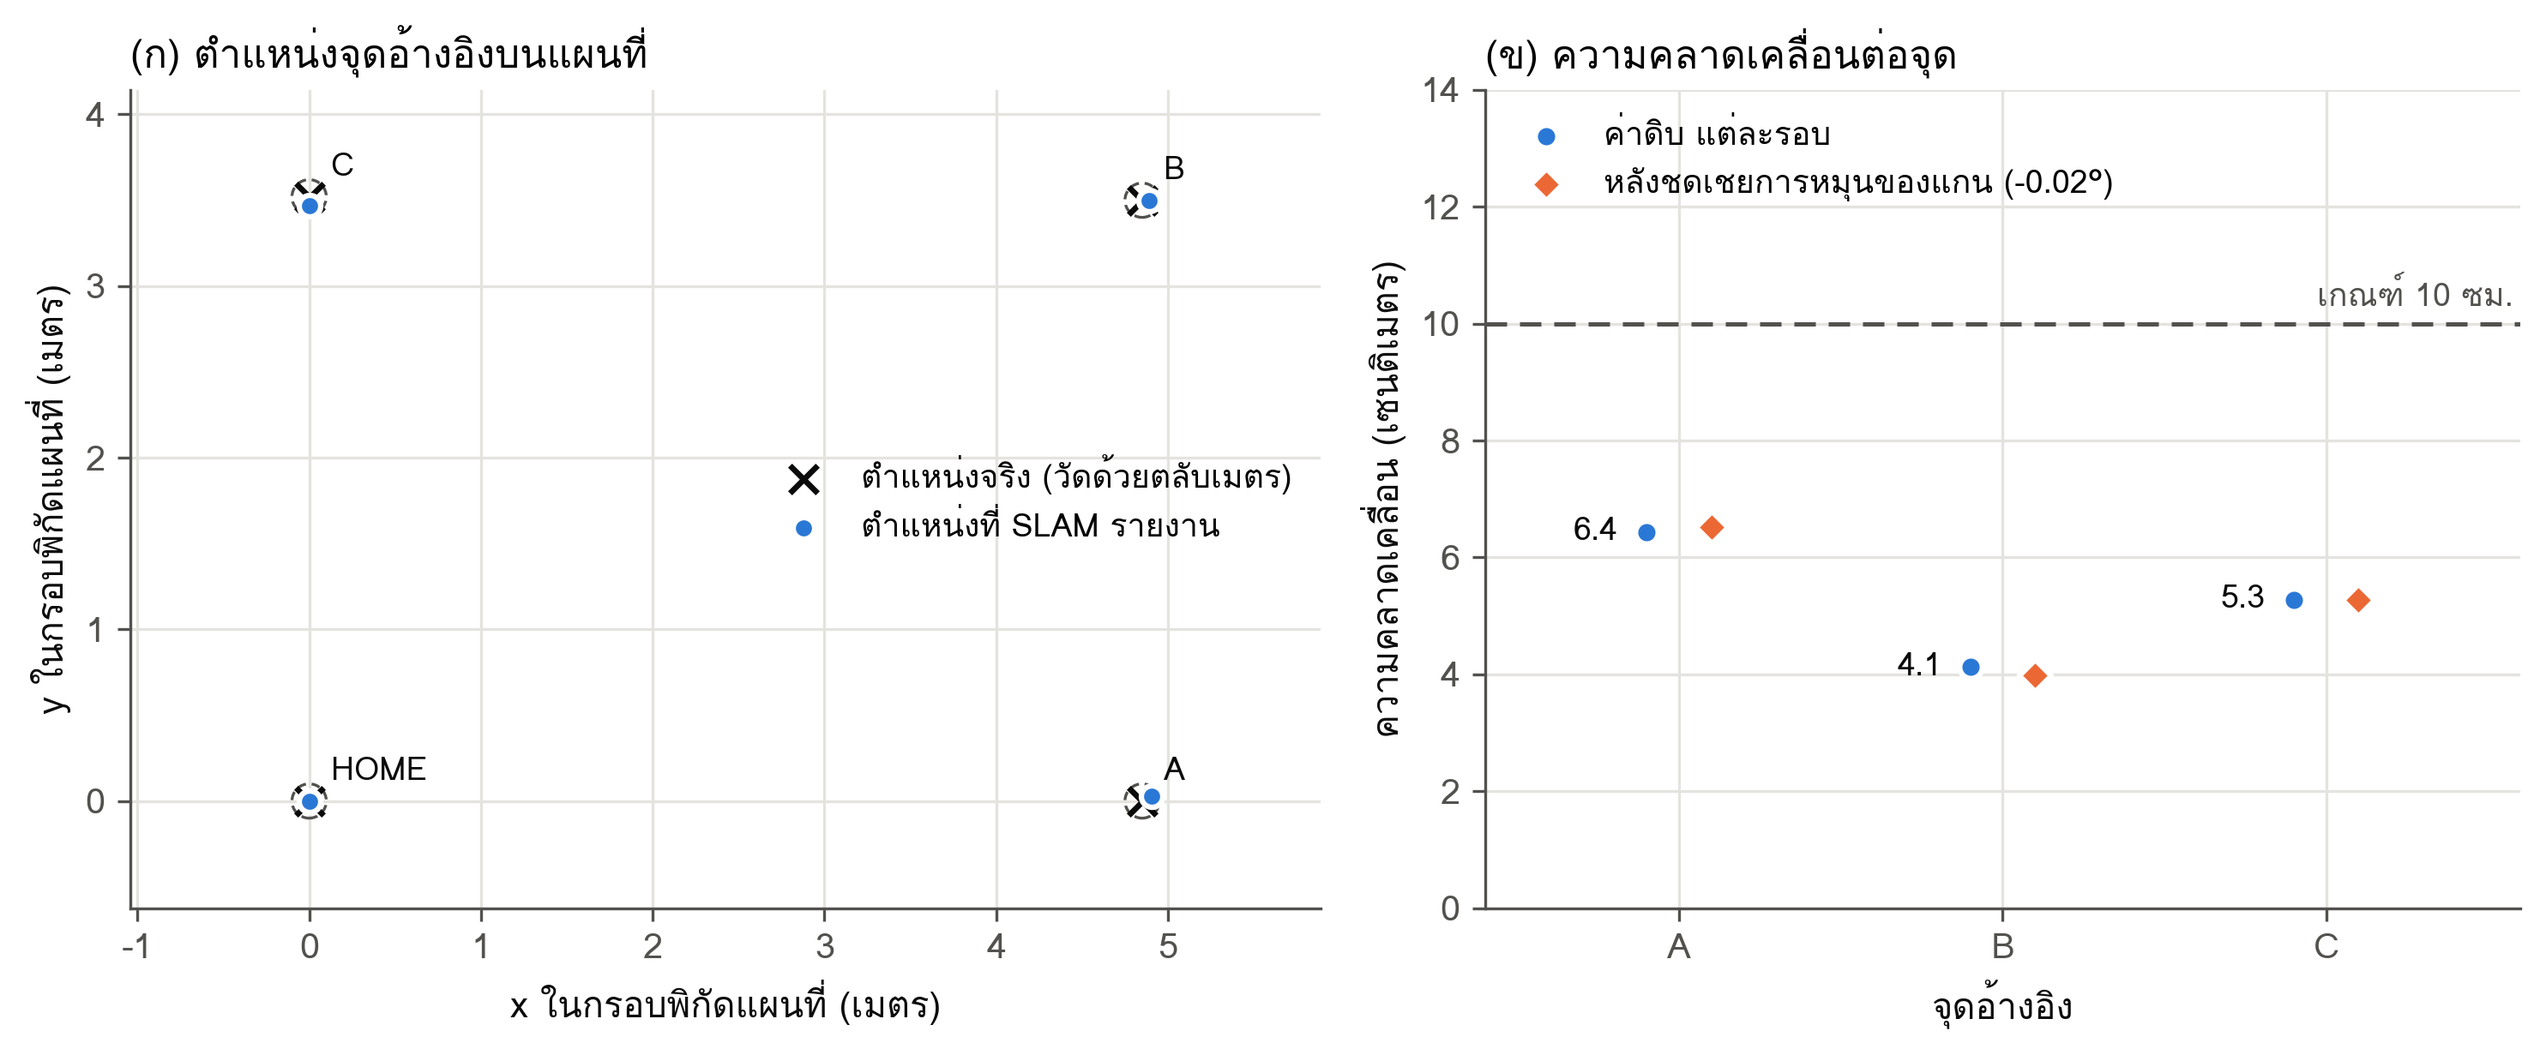
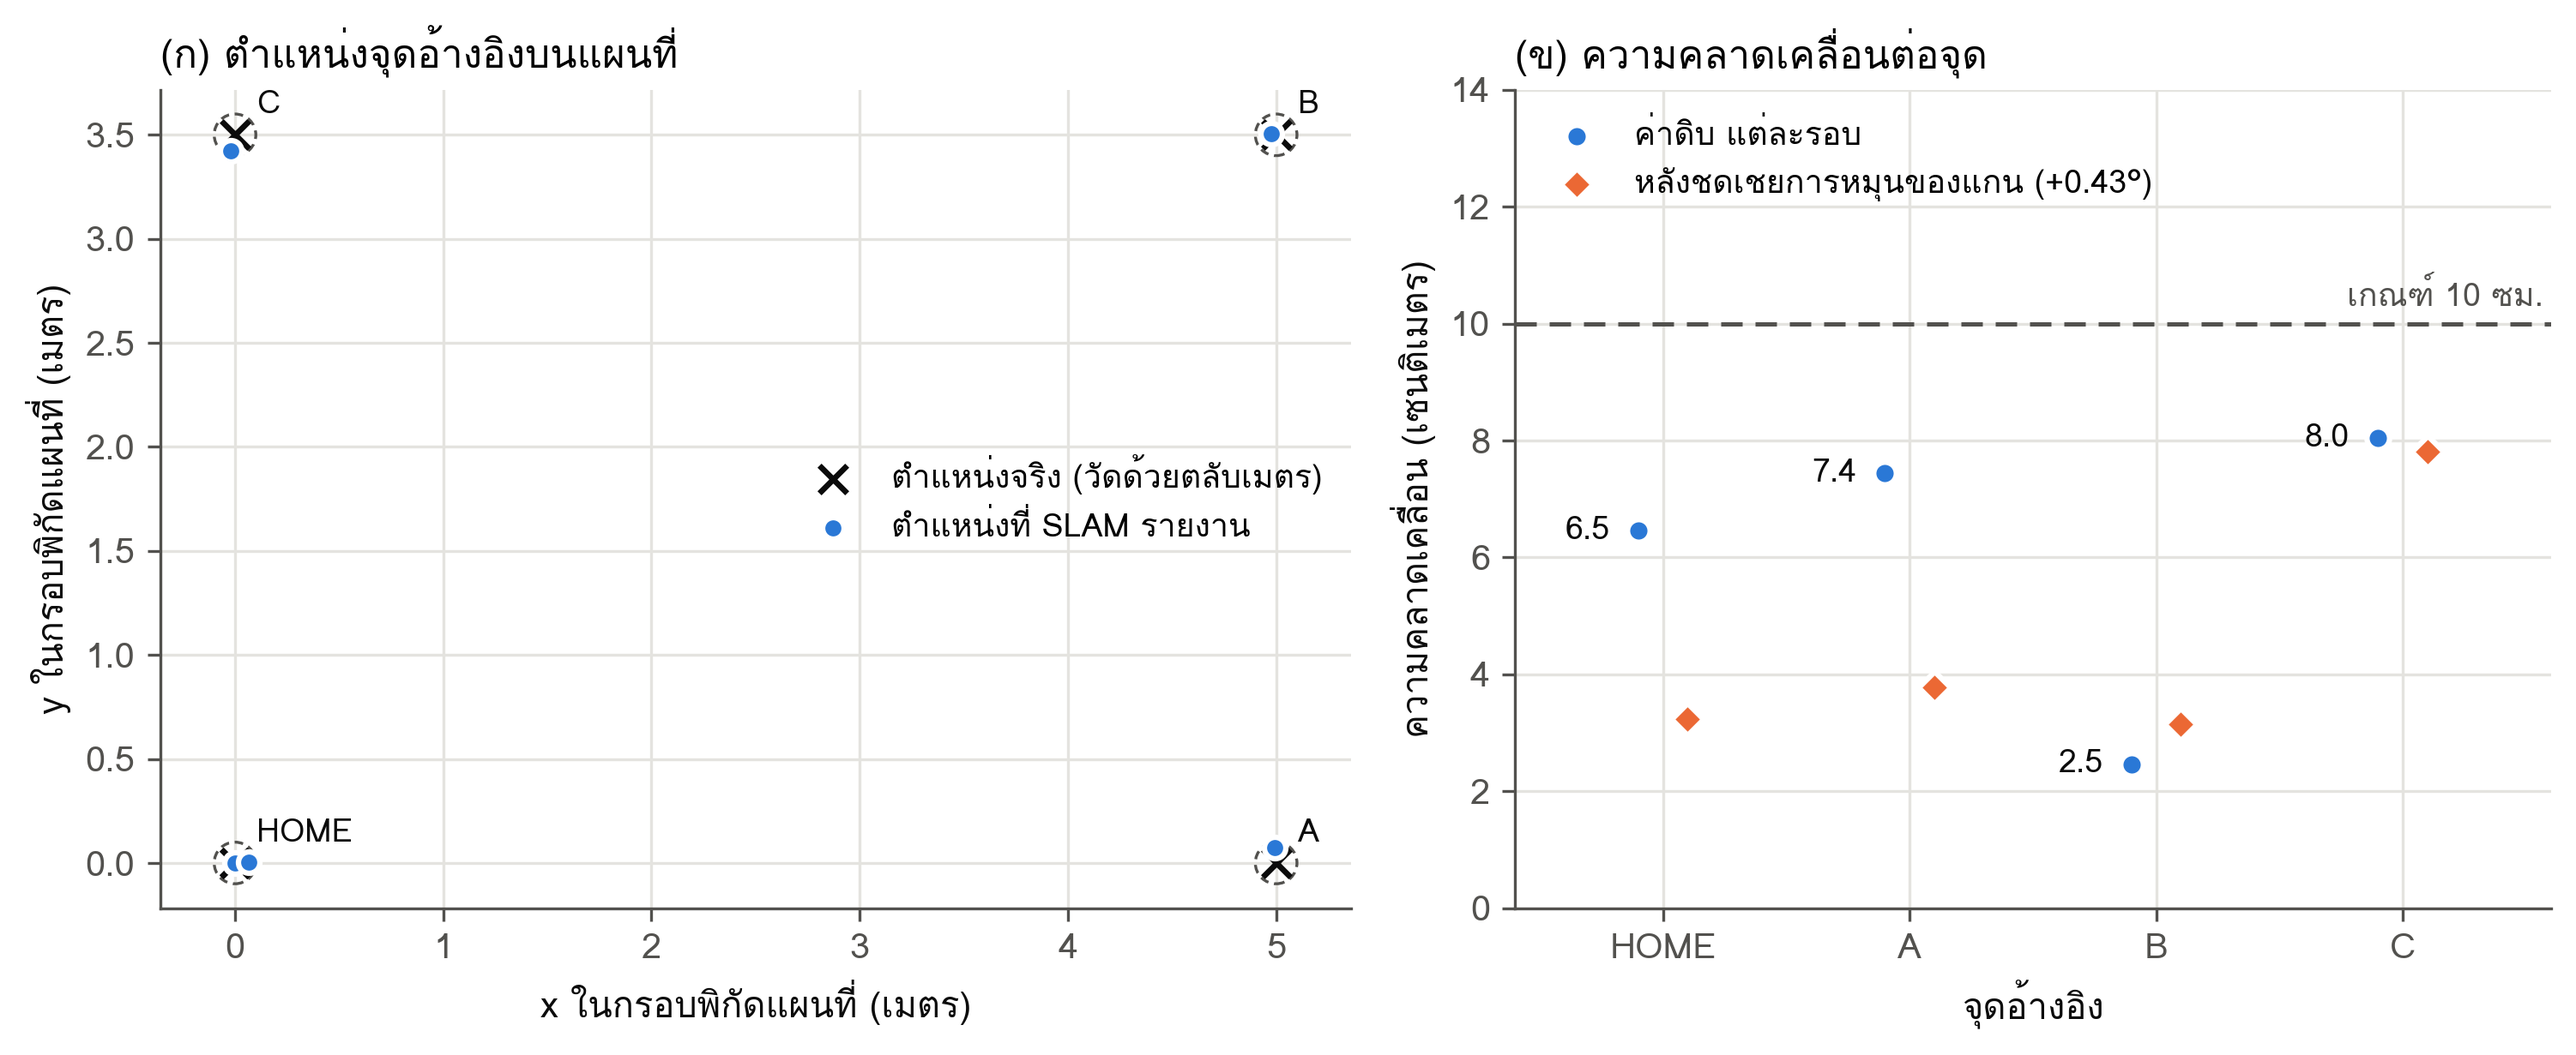
Obj 1: report the 25 Sep post-D-32 full lap (_0925d, worst 8.0 cm, HOME return 6.5) instead of _0925c
Lap 2 of the same session was bumped between B and C and is excluded;
the D-32 lap-2 test stays open.

diff --git a/project_report-good3.tex b/project_report-good3.tex
@@ -301,7 +301,7 @@ Localization Using LiDAR and Edge AI\par}
 และแสดงผลแบบเรียลไทม์ผ่านเว็บแอปพลิเคชัน
 
 ผลการทดสอบบนหุ่นยนต์จริงผ่านเกณฑ์ที่กำหนดทั้งห้าข้อ
-ความคลาดเคลื่อนเชิงตำแหน่งของ SLAM สูงสุด 6.4 เซนติเมตร (เกณฑ์ 10 เซนติเมตร)
+ความคลาดเคลื่อนเชิงตำแหน่งของ SLAM สูงสุด 8.0 เซนติเมตร (เกณฑ์ 10 เซนติเมตร)
 ความแม่นยำของการตรวจจับวัดเป็นค่า F1 เฉลี่ยได้ร้อยละ 82.2 (เกณฑ์ร้อยละ 80)
 เพิ่มขึ้นจากร้อยละ 64.4 ของแบบจำลองรุ่นแรก
 การตรวจจับทำงานได้ 15.16 เฟรมต่อวินาทีขณะ SLAM ทำงานอยู่ (เกณฑ์ 5 เฟรมต่อวินาที)
@@ -2281,7 +2281,7 @@ $(x_{r}, y_{r}, \theta_{r})$ ที่สอบถามจาก TF2 ณ เว
 
     \item \textbf{ชั้นสร้างแผนที่และนำทาง} สร้างแผนที่สองมิติด้วย slam\_toolbox
     นำทางไปยังเป้าหมายและสำรวจพื้นที่ได้เอง
-    ความคลาดเคลื่อนเชิงตำแหน่งของ SLAM สูงสุด \textbf{6.4 เซนติเมตร} (เกณฑ์ 10 เซนติเมตร)
+    ความคลาดเคลื่อนเชิงตำแหน่งของ SLAM สูงสุด \textbf{8.0 เซนติเมตร} (เกณฑ์ 10 เซนติเมตร)
 
     \item \textbf{ชั้นตรวจจับวัตถุ} YOLO26l บน TensorRT ได้ค่า F1 เฉลี่ยร้อยละ \textbf{82.2} (เกณฑ์ร้อยละ 80)
     เพิ่มขึ้นจากร้อยละ 64.4 ของ YOLO26s รุ่นแรก
@@ -2325,7 +2325,7 @@ $(x_{r}, y_{r}, \theta_{r})$ ที่สอบถามจาก TF2 ณ เว
 1 & ความคลาดเคลื่อนเชิงตำแหน่งของ SLAM ไม่เกิน 10 เซนติเมตร
   & ทำเครื่องหมายจุดอ้างอิงที่ทราบพิกัดจริงในพื้นที่ทดสอบ
     ขับหุ่นยนต์กลับมายังจุดเดิม แล้วเทียบพิกัดที่ระบบรายงานกับพิกัดจริง
-  & \textbf{ผ่าน} \newline สูงสุด 6.4 ซม. ที่ 3 จุด \newline (ไม่มีขากลับจุดเริ่มต้น) \\
+  & \textbf{ผ่าน} \newline สูงสุด 8.0 ซม. ที่ 4 จุด \newline (ครบหนึ่งรอบ) \\
 \hline
 2 & ความแม่นยำของแบบจำลองไม่น้อยกว่าร้อยละ 80
   & กำกับข้อมูลด้วยมือบนภาพ 143 ภาพจากพื้นที่ใช้งานจริง
@@ -2397,42 +2397,44 @@ $(x_{r}, y_{r}, \theta_{r})$ ที่สอบถามจาก TF2 ณ เว
 ขับหุ่นยนต์ด้วยมือที่ความเร็ว 0.10 เมตรต่อวินาทีไปจอดที่แต่ละจุดตามลำดับ
 โดยใช้โอดอมิเตอร์จากล้อเพียงอย่างเดียว (ไม่เปิดการผสานข้อมูลไจโรสโคป)
 แล้วเฉลี่ยพิกัดที่ระบบรายงานขณะหยุดนิ่ง 5 วินาที
-พิกัดจริงของแต่ละจุดคือตำแหน่งที่หุ่นยนต์จอดอยู่จริงตามที่วัดด้วยตลับเมตร
-ที่จุด C หุ่นยนต์จอดเยื้องจากเครื่องหมาย 2 เซนติเมตร จึงใช้ค่าที่วัดได้ (0.00, 3.52) เมตร
-จุดเริ่มต้นเป็นจุดกำเนิดของแผนที่ จึงมีความคลาดเคลื่อนเป็นศูนย์โดยนิยามและไม่นับเป็นจุดวัด
+จุดเริ่มต้นเป็นจุดกำเนิดของแผนที่ จึงมีความคลาดเคลื่อนเป็นศูนย์โดยนิยามขณะเริ่ม
+และนับเป็นจุดวัดเฉพาะขากลับเมื่อหุ่นยนต์ขับครบรอบกลับมาจอดที่จุดเดิม
 
 \begin{table}[H]
 \centering
 \caption[ผลการวัดความคลาดเคลื่อนเชิงตำแหน่งของ SLAM (บทที่ 5)]{ผลการวัดความคลาดเคลื่อนเชิงตำแหน่งของ SLAM
-ที่จุดอ้างอิงสามจุด เทียบกับพิกัดที่วัดด้วยตลับเมตร (พิกัดหน่วยเมตร)}
+ที่จุดอ้างอิงสี่จุดตลอดหนึ่งรอบ เทียบกับพิกัดที่วัดด้วยตลับเมตร (พิกัดหน่วยเมตร)}
 \label{tab:obj1}
 \small
 \begin{tabular}{|c|c|c|c|}
 \hline
 \textbf{จุด} & \textbf{ตลับเมตร ($x$, $y$)} & \textbf{ระบบ ($x$, $y$)} & \textbf{ความคลาดเคลื่อน} \\
 \hline
-A & (4.85, 0.00) & (4.91, 0.03) & 6.4 ซม. \\
+A & (5.00, 0.00) & (4.99, 0.07) & 7.4 ซม. \\
 \hline
-B & (4.85, 3.50) & (4.89, 3.50) & 4.1 ซม. \\
+B & (5.00, 3.50) & (4.98, 3.51) & 2.5 ซม. \\
 \hline
-C & (0.00, 3.52) & (0.00, 3.47) & 5.3 ซม. \\
+C & (0.00, 3.50) & ($-$0.02, 3.42) & 8.0 ซม. \\
 \hline
-\multicolumn{3}{|l|}{\textbf{สูงสุด} (เกณฑ์ไม่เกิน 10 ซม.)} & \textbf{6.4 ซม.} \\
+HOME (ขากลับ) & (0.00, 0.00) & (0.06, 0.00) & 6.5 ซม. \\
 \hline
-\multicolumn{3}{|l|}{สูงสุดหลังหักการหมุนระหว่างแกนตลับเมตรกับแกนแผนที่ ($-0.02^\circ$)} & 6.5 ซม. \\
+\multicolumn{3}{|l|}{\textbf{สูงสุด} (เกณฑ์ไม่เกิน 10 ซม.)} & \textbf{8.0 ซม.} \\
+\hline
+\multicolumn{3}{|l|}{สูงสุดหลังหักการหมุนระหว่างแกนตลับเมตรกับแกนแผนที่ ($+0.43^\circ$)} & 7.8 ซม. \\
 \hline
 \end{tabular}
 \end{table}
 
-ทั้งสามจุดผ่านเกณฑ์
-ความคลาดเคลื่อนของระยะระหว่างจุดทุกคู่อยู่ระหว่าง $-5.3$ ถึง $+5.7$ เซนติเมตร
-และมีทั้งค่าบวกและค่าลบ จึงไม่พบความคลาดเคลื่อนเชิงสเกลจากโอดอมิเตอร์
+ทั้งสี่จุดผ่านเกณฑ์ โดยความคลาดเคลื่อนเฉลี่ย 6.1 เซนติเมตร
+ขากลับจุดเริ่มต้นหลังขับครบรอบระยะทางประมาณ 17 เมตร คลาดเคลื่อน 6.5 เซนติเมตร
+ซึ่งสะท้อนความคลาดเคลื่อนสะสมทั้งรอบ
+ระยะระหว่างจุดทุกคู่ที่ระบบรายงานสั้นกว่าระยะจากตลับเมตร $0.4$ ถึง $7.9$ เซนติเมตร
+จึงอาจมีความคลาดเคลื่อนเชิงสเกลจากโอดอมิเตอร์เล็กน้อย (ประมาณร้อยละ $-0.6$ เมื่อหักการหมุนของแกนแล้ว)
+แต่คำนวณจากจุดเพียงสี่จุด จึงไม่ได้นำไปปรับค่ารัศมีล้อ
 ค่าที่วัดได้รวมความคลาดเคลื่อนจากการจอดหุ่นยนต์ด้วยมือ (ประมาณ 2 เซนติเมตร)
 และจากตลับเมตร (ประมาณ 1 เซนติเมตร) ไว้ด้วย จึงเป็นขอบเขตบนของความคลาดเคลื่อนของ SLAM
 
-ทั้งนี้แบตเตอรี่หมดหลังจอดที่จุด C
-จึงไม่ได้บันทึกขากลับจุดเริ่มต้น ซึ่งเป็นขาที่สะท้อนความคลาดเคลื่อนสะสมทั้งรอบ
-นอกจากนี้ ในรอบทดสอบก่อนหน้าที่ใช้ปรับขั้นตอนการวัด
+ทั้งนี้ ในรอบทดสอบก่อนหน้าที่ใช้ปรับขั้นตอนการวัด
 พบว่าความคลาดเคลื่อนเกินเกณฑ์เมื่อทิศหัวของหุ่นยนต์ขณะเริ่มสร้างแผนที่ไม่ตรงกับแกนตลับเมตร
 และมีรอบหนึ่งที่ตำแหน่งกระโดดไปประมาณ 46 เซนติเมตรระหว่างจุด B กับ C ในรอบที่สอง
 

diff --git a/records/calibration.md b/records/calibration.md
@@ -2831,5 +2831,25 @@ and the C–HOME pair reads 3.39 m against 3.50.
 ~/maps/slam_accuracy_0925c.jsonl`), stated as 3 marks / 1 lap / no HOME return / area
 4.85 × 3.52 m, with the earlier over-criterion laps and the 46 cm jump disclosed.
 
+| **`_0925d`** | **HOME → A → B → C → HOME, 1 full lap**, 25 Sep 22:10, **after D-32** (restart time not confirmed), radius 0.0327, `make slam` defaults (no IMU/EKF), truths **A (5.0, 0) B (5.0, 3.5) C (0, 3.5)** | **8.0 cm** (C) | **7.8 cm** (+0.43°) | HOME return 6.5 cm (the only revisit) | all 6 pairs short, −0.4…−7.9 cm; fitted −0.56 % | +0.43° |
+
+`_0925d` per mark: A 7.4 (dx −0.9, dy +7.4), B 2.5, C 8.0 (dy −7.8), HOME return 6.5 (dx +6.5);
+mean 6.1 cm. Split out of `~/maps/slam_accuracy.jsonl` lines 24–28 (that file pools five
+sessions, 21:33–22:10 — its `--summary` is meaningless as a whole).
+**Truth A/B x = 5.0: the user stated 25 Sep late that 5 is correct for this run**, which
+contradicts the "4.85 applies to every session" note above; not reconciled. Re-scored at
+4.85 this lap would be A 15.9 / B 12.6 cm FAIL. A reads 4.99 here vs 4.87–4.89 in every
+earlier session, consistent with the marks having been moved to 5.0.
+The same session continued a lap 2 (lines 29–33): A 6.4, B 3.1 cm, then **someone bumped
+the robot on B → C** and SLAM never recovered — C 103.4 / 101.8 cm, HOME 93.0 cm, a
+persistent ~1 m offset. Excluded at the user's request; not in the report. So the D-32 test
+(REPEAT vs `_0925b`'s 25.7 cm) is **inconclusive**: pre-bump A/B repeat is 1.3 cm, but the
+near-chain gate only acts on revisits and the lap that exercises it was disturbed.
+
+**Used in the report as objective 1's result (25 Sep late), replacing `_0925c`:** `tab:obj1`
+(4 rows incl. HOME return), abstract, summary bullet and `tab:eval` row 1 → 8.0 cm;
+`figures/slam_error_result.png` from `plot_objectives.py slam --slam-session
+~/maps/slam_accuracy_0925d.jsonl`.
+
 **0.03203 reverted (see Odometry (b)).** Still owed: ≥ 3 laps at 0.0327, and a check of
 what makes the map short (lidar range vs a wall at 2–4 m; re-tape HOME → A).

diff --git a/troubleshooting/symptom-index.md b/troubleshooting/symptom-index.md
@@ -1432,3 +1432,13 @@ the normal X2 dropout (scattered ~19–28 % zeros): a contiguous arc at 0 %. Fix
 that worked: clean the lidar window and replug its USB (24 Sep 23:43). Root cause
 not isolated (dirt vs. connector). Before any accuracy run, look at one `/scan`
 in RViz or with `scan_dropout_report.py` for a solid empty arc. (24 Sep)
+
+### Robot bumped mid-lap; every later mark is off by ~1 m and never comes back
+Seen on objective 1 `_0925d` lap 2 (after D-32): A 6.4 and B 3.1 cm, then a person
+bumped the robot on the B → C leg; C read 103 / 102 cm and HOME 93 cm, a steady ~1 m
+offset plus ~10° of yaw. Not the bump's physical size — SLAM lost track and did not
+re-localise. Cause not isolated (no bag recorded). Plausibly: the push moved the robot
+without the encoders seeing it, and with D-32 trusting odometry more and the search
+window at ±15 cm / ±10°, the matcher could not pull it back. Fix: none in place; a
+session disturbed like this is spent — restart `make slam` at HOME. Keep people clear
+of the robot during accuracy laps. (25 Sep)

diff --git a/STATE.md b/STATE.md
@@ -7,6 +7,12 @@
 (Nav2 earlier today, teleop this session); the IMU work from 18 Sep still has
 every driven measurement outstanding.
 
+> 📏 **25 Sep (22:10) — objective 1 re-run after D-32: 1 full lap PASS, worst 8.0 cm
+> (ALIGNED 7.8), HOME return 6.5 cm. In the report, replacing `_0925c`** (`_0925d`,
+> truths A/B x = 5.0 per the user). Lap 2 was bumped between B and C and SLAM held a
+> ~1 m offset to the end — excluded; the D-32 lap-2 test is therefore still open.
+> See `records/calibration.md` → `_0925d`.
+
 > 🧭 **25 Sep (late) — SLAM trusts odometry more (D-32), NOT YET DRIVEN.**
 > `link_match_minimum_response_fine` 0.1 → **0.35** (near-chain matches were
 > unpenalised and overwrote the keyframe pose — the likely route for `_0925b`'s
